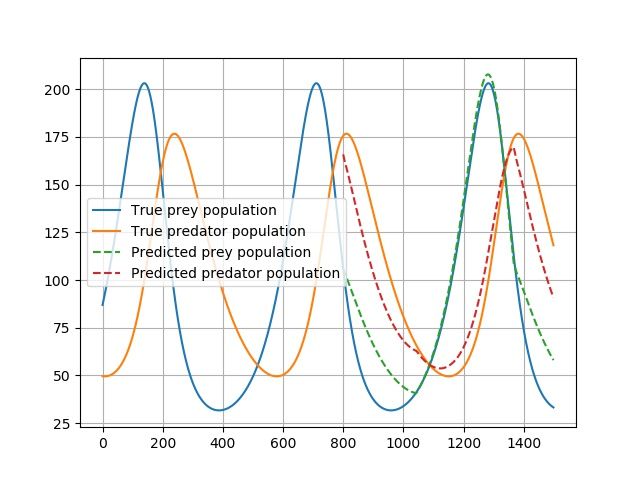
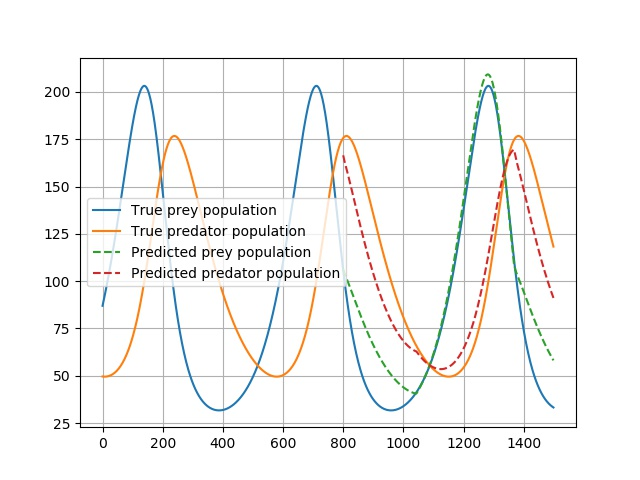
initialize with optimized weights

diff --git a/TCN/prey_pred_model/dense_model.py b/TCN/prey_pred_model/dense_model.py
@@ -14,3 +14,20 @@ class DenseNN(nn.Module):
         h1 = F.relu( self.fc1(x.contiguous().view(-1, seq_length*2)) )
         h2 = F.relu(self.fc2(h1))
         return self.fc3(h2)
+
+class DenseNN_init(nn.Module):
+    def __init__(self, seq_length):
+        super(DenseNN_init, self).__init__()
+        
+        self.fc1 = nn.Linear(seq_length*2, int(seq_length*1.5) )
+        self.fc2 = nn.Linear(int(seq_length*1.5), int(seq_length*0.5))
+        self.fc3 = nn.Linear(int(seq_length*0.5), 2)
+        with torch.no_grad():
+            self.fc1.weight = torch.nn.Parameter( torch.load('fc1.pt') )
+            self.fc2.weight = torch.nn.Parameter( torch.load('fc2.pt') )
+            self.fc3.weight = torch.nn.Parameter( torch.load('fc3.pt') )
+
+    def forward(self, x, seq_length):
+        h1 = F.relu( self.fc1(x.contiguous().view(-1, seq_length*2)) )
+        h2 = F.relu(self.fc2(h1))
+        return self.fc3(h2)

diff --git a/TCN/prey_pred_model/prey_pred_sequence_randInit_denseNN.py b/TCN/prey_pred_model/prey_pred_sequence_randInit_denseNN.py
@@ -30,7 +30,7 @@ parser.add_argument('--seq_len', type=int, default=10,
                     help='sequence length (default: 10)')
 parser.add_argument('--log-interval', type=int, default=100, metavar='N',
                     help='report interval (default: 100')
-parser.add_argument('--lr', type=float, default=5e-5,
+parser.add_argument('--lr', type=float, default=4e-3,
                     help='initial learning rate (default: 4e-3)')
 parser.add_argument('--optim', type=str, default='Adam',
                     help='optimizer to use (default: Adam)')
@@ -68,7 +68,8 @@ Y_test = data[1][training_examples:,:]
 channel_sizes = [args.nhid]*args.levels
 kernel_size = args.ksize
 dropout = args.dropout
-model = DenseNN(seq_length)
+model = DenseNN_init(seq_length)
+
 
 if args.cuda:
     model.cuda()
